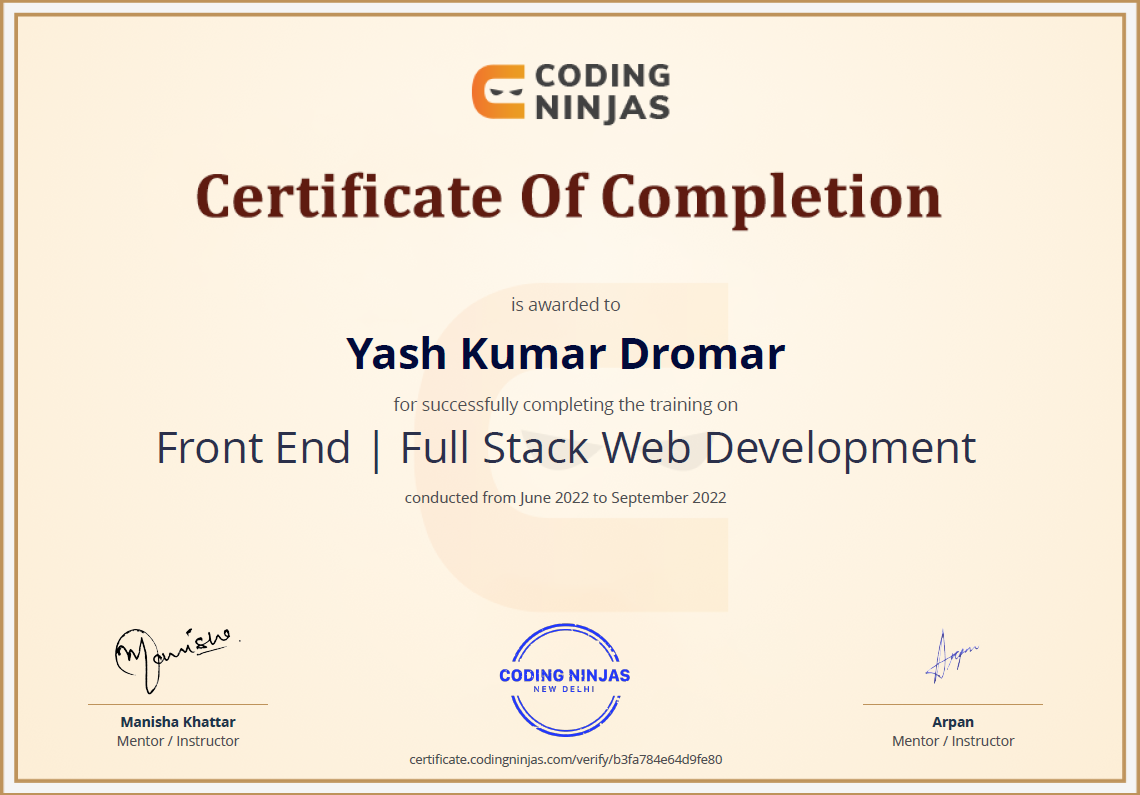
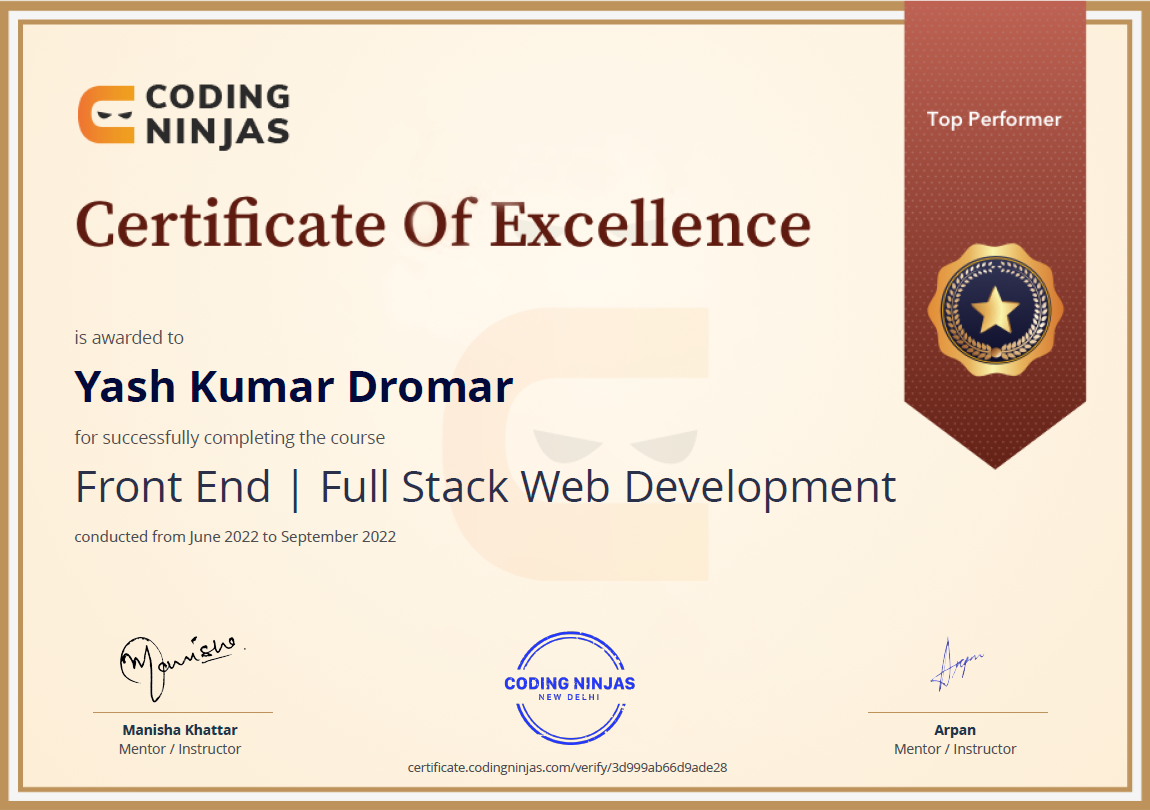
changed certificate

diff --git a/index.html b/index.html
@@ -208,7 +208,7 @@ initial-scale=1,minimum-scale=1">
           </div>
           <div class="container-box">
             <img src="static/certificates/frontend.png">
-            <div class="container-details"><a href="https://certificate.codingninjas.com/view/b3fa784e64d9fe80" target="_blank">View Certificate</a></div>
+            <div class="container-details"><a href="https://certificate.codingninjas.com/view/3d999ab66d9ade28" target="_blank">View Certificate</a></div>
 
             <div class="container-title">Frontend Web Development</div>
 
